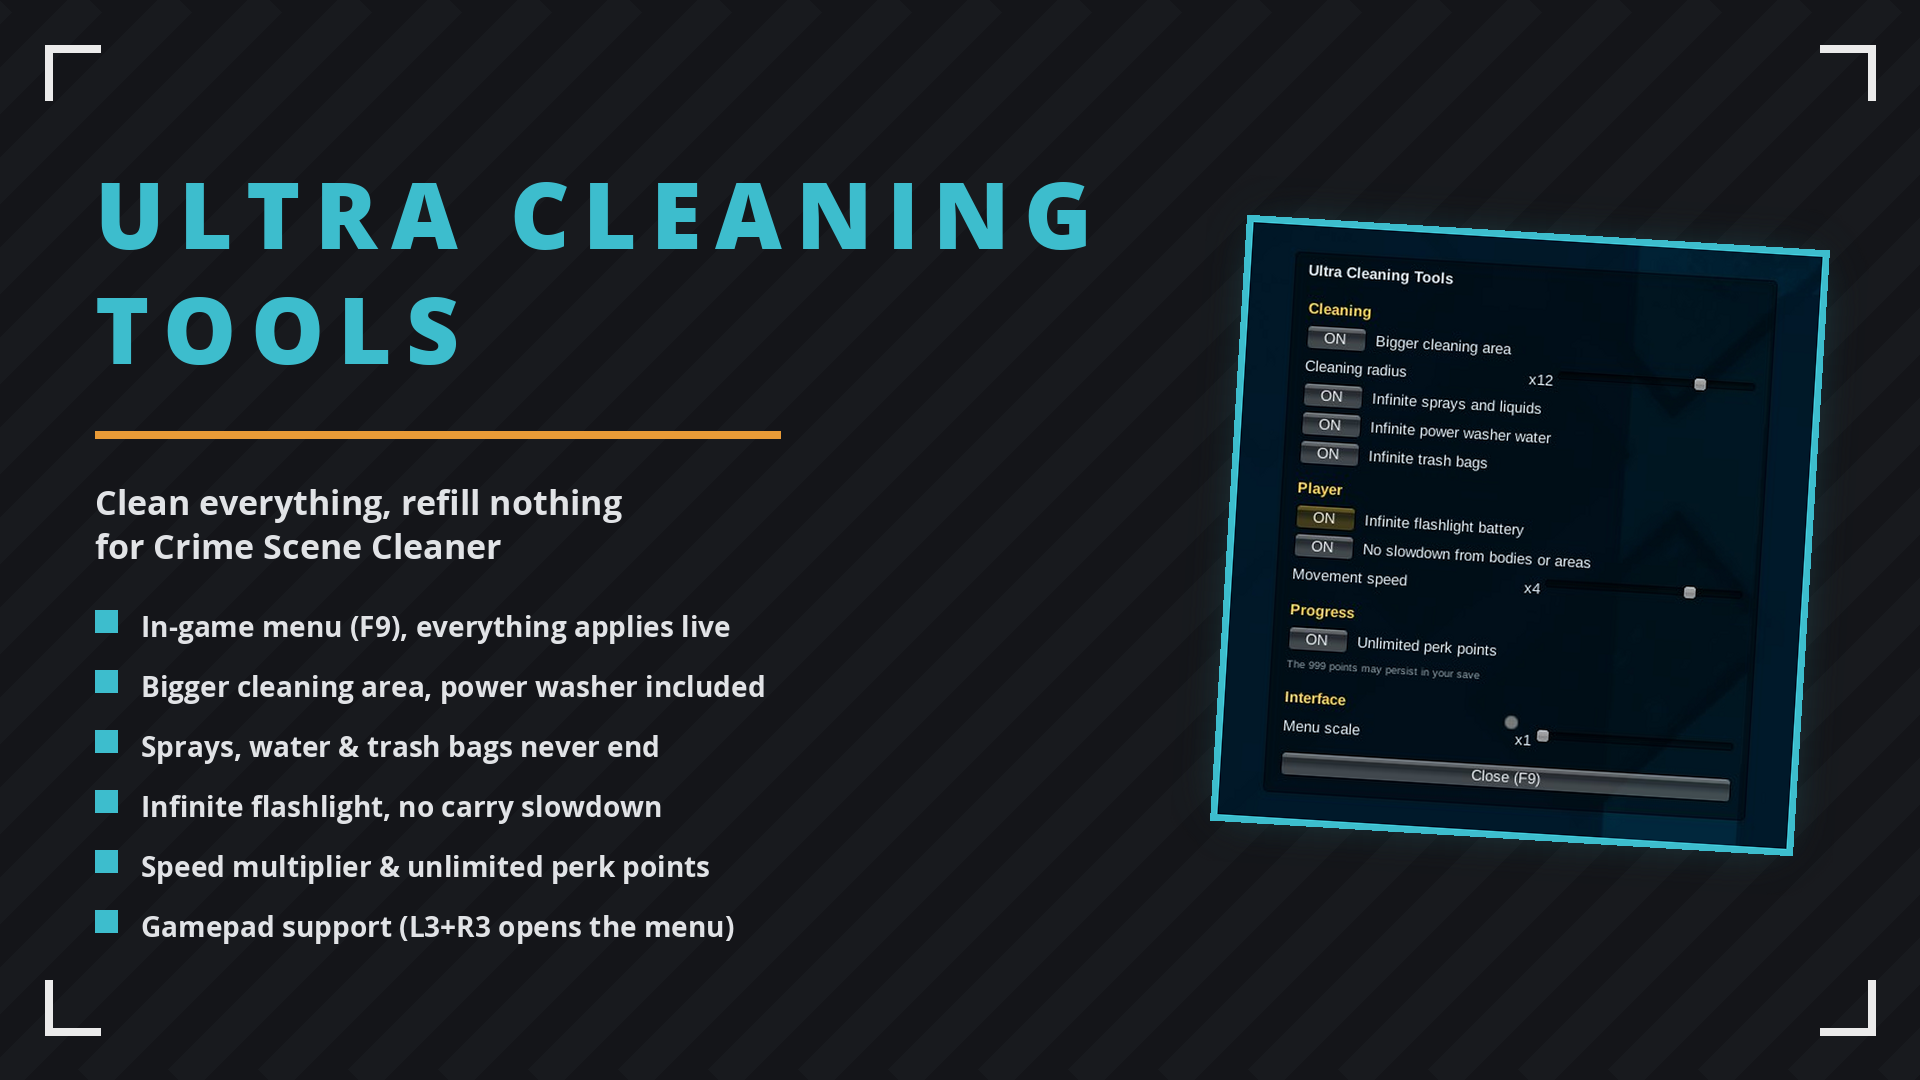
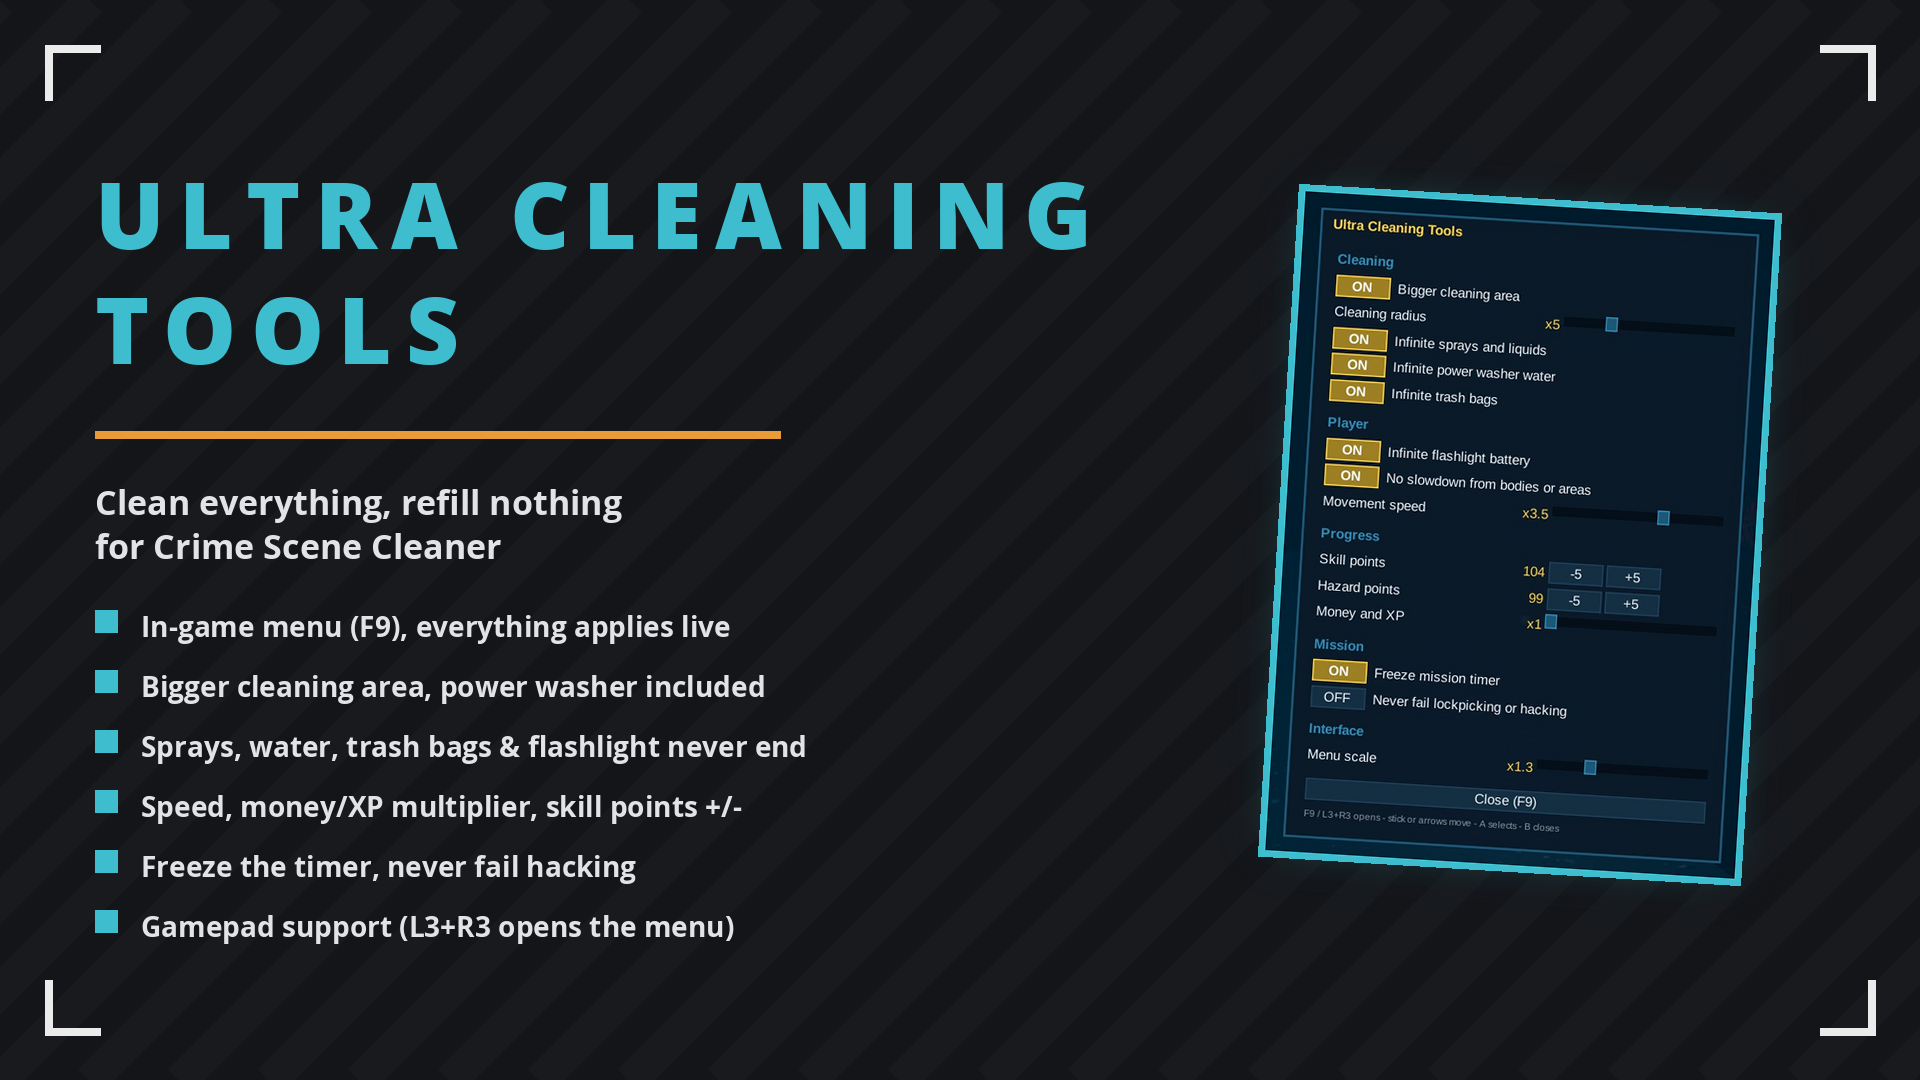
UltraCleaningTools 4.2.0: menu key option, new skin, skill points +/-
Configurable MenuKey in MelonPreferences.cfg, custom menu skin, money/XP
multiplier, frozen mission timer, no-fail hacking. Skill and hazard points
now edited with +/- instead of the forced 999. Fix sliders moving together
after gamepad use, cursor and controls restored on close.

diff --git a/CrimeSceneCleaner/UltraCleaningTools/README.md b/CrimeSceneCleaner/UltraCleaningTools/README.md
@@ -7,25 +7,28 @@
 Bigger cleaning area, sprays and liquids never run out, infinite power washer water and infinite trash bag capacity. One menu for everything: F9 or L3+R3 on a gamepad.
 
 ## ✨ Features
-- In-game menu on F9, draggable and scalable
+- In-game menu on F9 (change the key with `MenuKey` in `UserData/MelonPreferences.cfg`), draggable and scalable
 - Full gamepad control (see Controls below)
 - Bigger cleaning area
 - Sprays & liquids never run out
 - Infinite washer water - backpack too
 - Infinite trash bag capacity
 - Movement speed multiplier
-- Unlimited perk points
+- Add or remove skill and hazard points
+- Money and XP multiplier
+- Freeze the mission timer
+- Never fail lockpicking or hacking
 
 ## 🎮 Controls
 | Input | Action |
 | --- | --- |
-| F9 / L3+R3 | open and close the menu |
+| F9 / L3+R3 | open and close the menu (keyboard key set by `MenuKey` in `UserData/MelonPreferences.cfg`, any Unity KeyCode name) |
 | Left stick or arrows | move between options |
 | A | select |
-| B / Esc | close |
+| B | close |
 | Left / right | adjust sliders |
 
-Your character stays put while the menu is open.
+Your character stays put while the menu is open. Window position is remembered.
 
 ## 🌍 Translating
 Texts live in `I18n.cs`, one dictionary per language keyed by the English string. To add a
